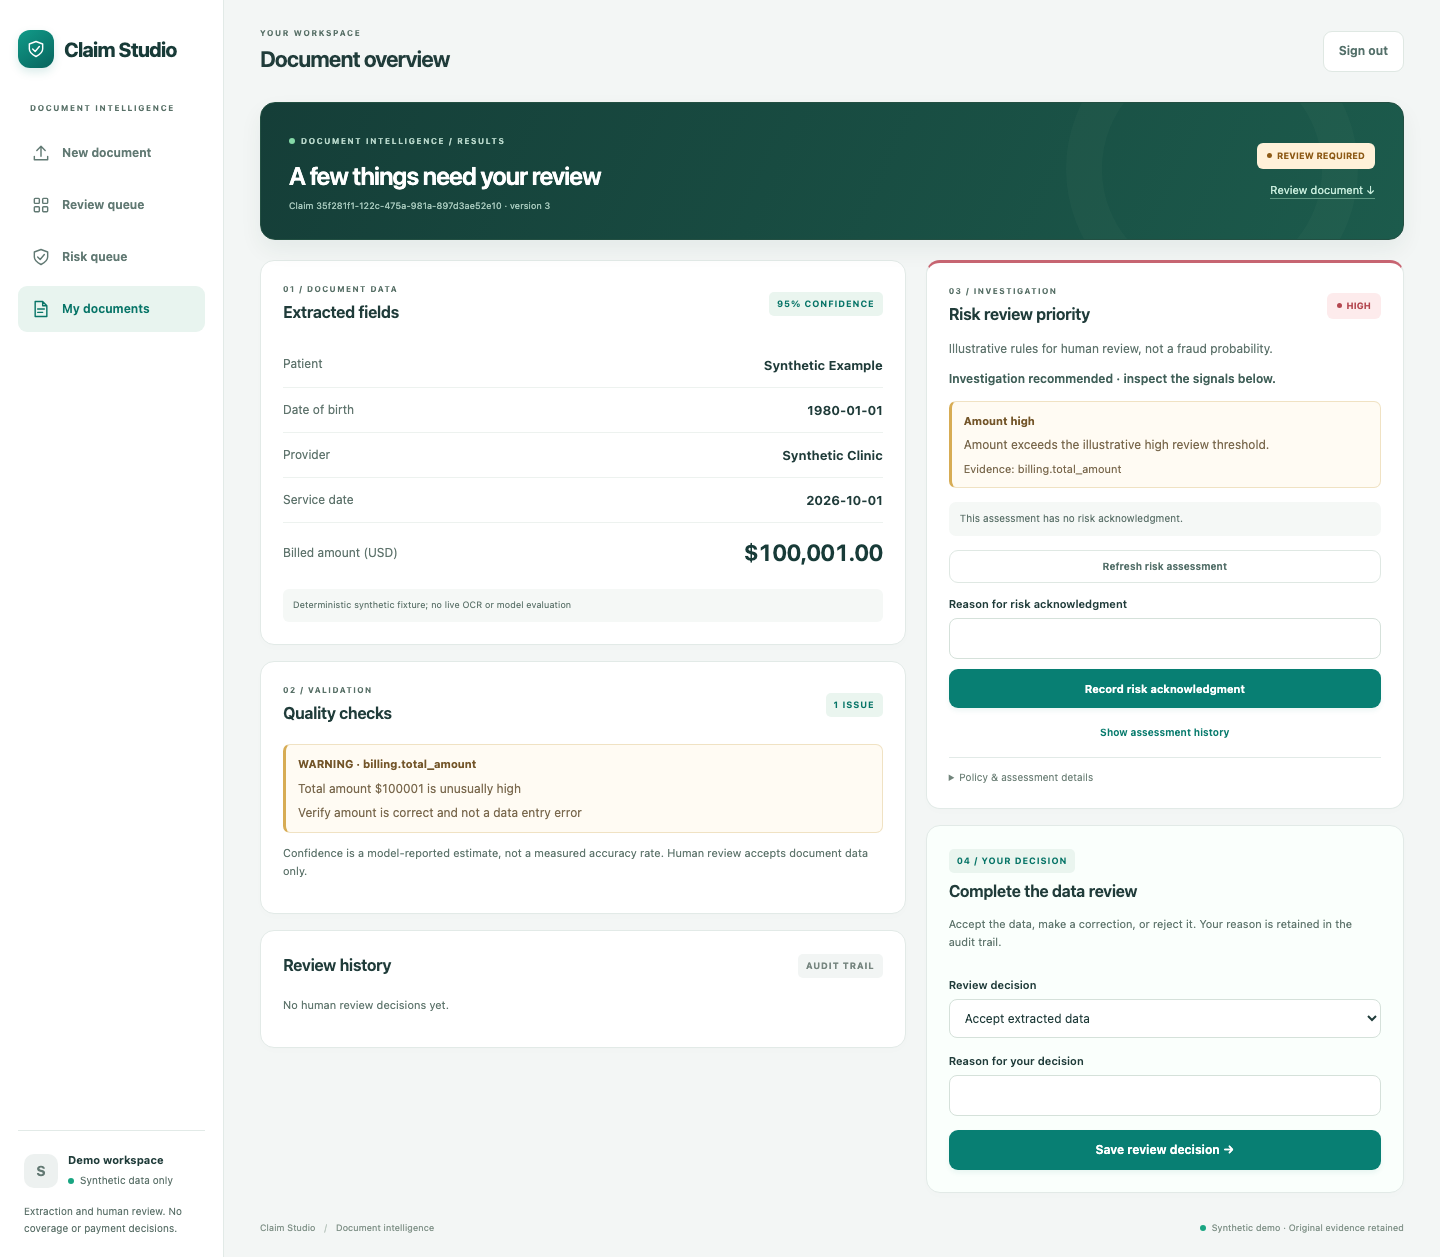
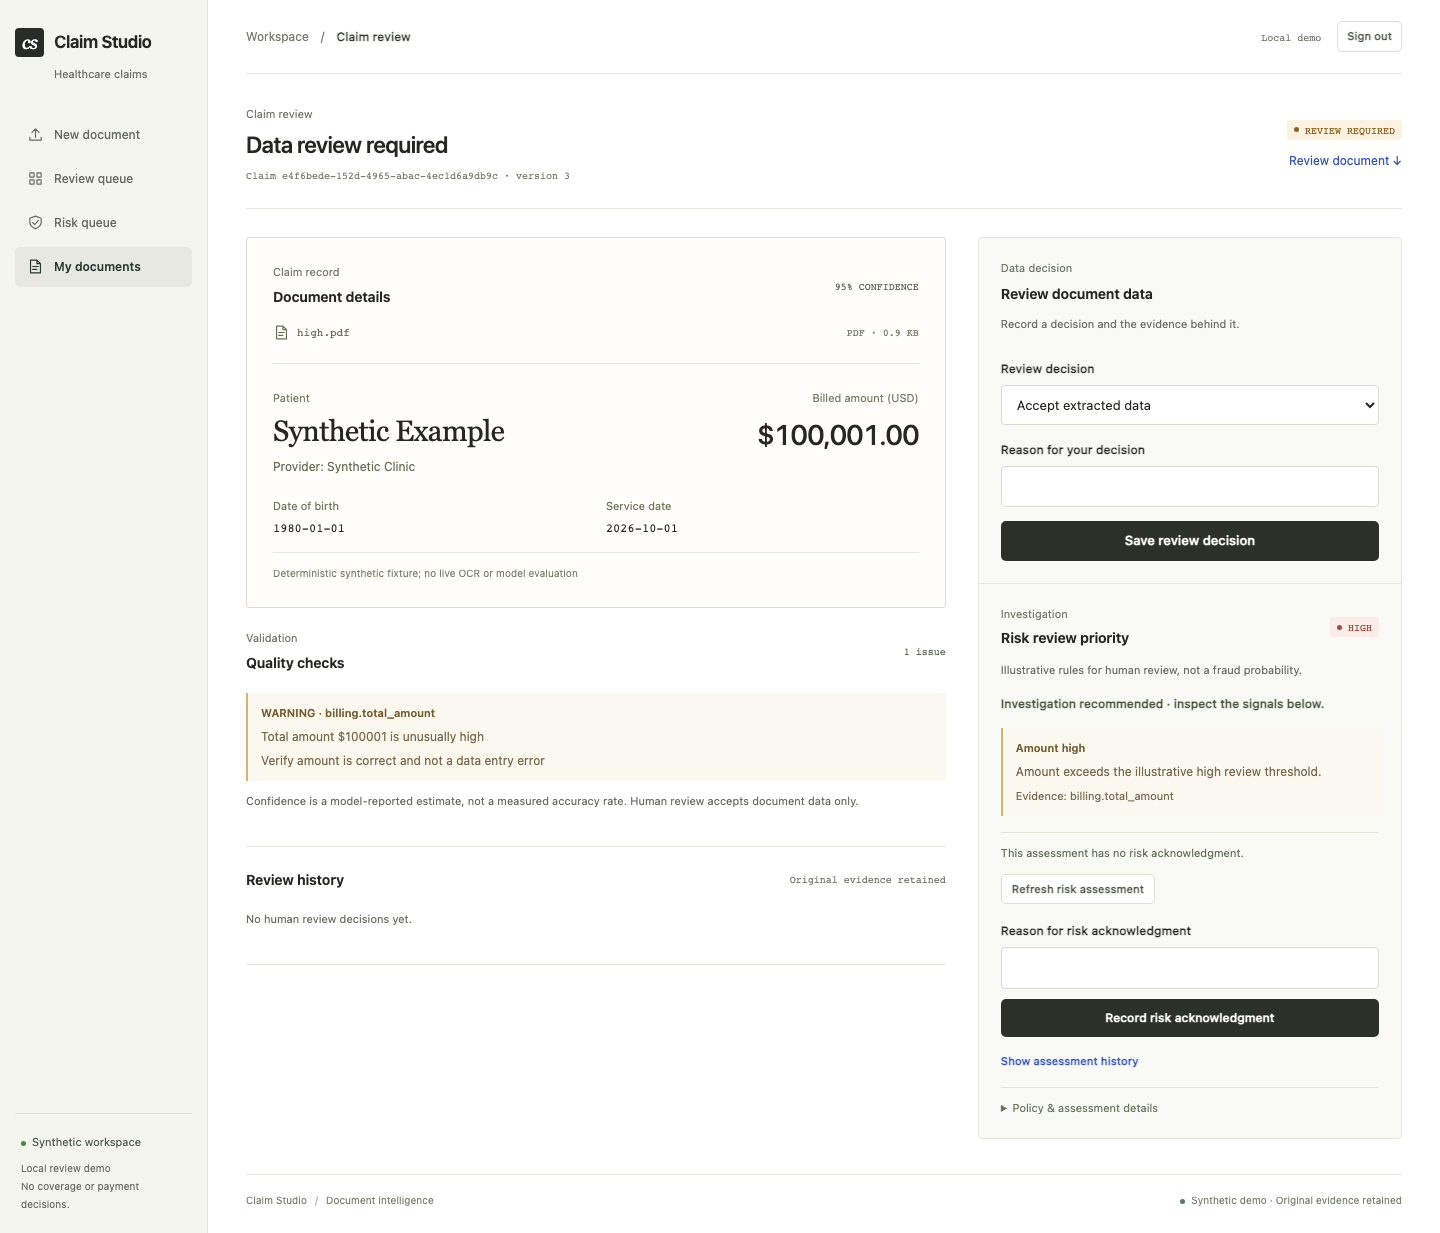
Refresh interface documentation and real workflow screenshots

diff --git a/docs/interface.md b/docs/interface.md
@@ -22,8 +22,9 @@ DEMO_PASSWORD. The browser receives an opaque session and CSRF token, never
 operator/provider credentials. Keep that session to revisit **My documents**.
 A fresh login creates a new private workspace; signing out revokes access.
 
-1. Download a clearly labeled synthetic sample from the upload screen.
-2. Upload it; the API creates the claim/document and enqueues processing.
+1. Select **Try** beside a labeled sample in synthetic mode, or download a sample
+   and use the file picker. One-click samples are hidden in live mode.
+2. The API creates the claim/document and enqueues the same processing workflow.
 3. Follow status polling. Polling stops on success, review-required, rejection,
    failure, sign-out, navigation away, or a request error.
 4. Inspect extracted fields, model-reported confidence, quality issues, and reasoning.
@@ -47,9 +48,11 @@ untrusted output. CSP permits only same-origin assets and forbids framing.
 ## Review workspace layout
 
 The document summary shows processing state and links directly to the data review
-when a decision is needed. Desktop results place extracted data, validation and
-review evidence on the left, with risk investigation and data decisions on the
-right. Mobile stacks those sections and keeps all four navigation choices visible.
+when a decision is needed. Desktop results use a case-file layout: stored filename,
+patient, provider, amount, dates, validation and audit evidence on the left; the
+data decision and independent risk investigation on the right. Mobile stacks those sections and keeps all four navigation choices visible.
+File details come from the existing protected document metadata API; filenames
+are rendered as text and stale responses cannot replace another selected case.
 Amounts use currency formatting for display; stored values and review inputs retain
 exact decimal semantics. Policy timestamps and acknowledgment actor details remain
 available under **Policy & assessment details**. Raw before/after audit snapshots
@@ -70,12 +73,17 @@ uv run --locked python -m scripts.check_browser
 ```
 
 The launcher starts separate API and worker processes on loopback port 8047 and
-runs four Chromium workflows covering login, upload, complete results,
+runs five Chromium workflows covering login, upload, complete results,
 correction/audit, rejection, failure/retry, scoped duplicates, risk investigation,
-and logout. The mobile workflow checks investigation/acknowledgment, data approval,
+and logout. The mobile workflow checks one-click samples, real file metadata,
+investigation/acknowledgment, data approval,
 queue navigation, and horizontal overflow at 390px. Its dedicated test DB must
-not contain real/user data. It removes demo smoke records and session rows after completion.
+not contain real/user data. A separate scenario delays a metadata response while
+switching cases and verifies the selected filename/amount remain correct.
+The launcher removes demo smoke records and session rows after completion.
 Screenshots show this actual fixture flow, not a proposed interface:
 
 ![Results](screenshots/results.png)
 ![Review audit](screenshots/review.png)
+
+The [UI design notes](ui-design.md) record the reference products and visual decisions.

diff --git a/docs/ui-design.md b/docs/ui-design.md
@@ -1,0 +1,37 @@
+# Claim Studio interface design
+
+The workspace is a case file for reviewing extracted claim data. The document,
+evidence and next decision define its hierarchy.
+
+## References
+
+[Linear's interface refresh](https://linear.app/now/behind-the-latest-design-refresh)
+informed the quiet navigation, consistent location bar and restrained visual weight.
+[Ramp's bill approval workflow](https://support.ramp.com/bill-pay-approvals/)
+informed the separation of record evidence and reviewer decisions. These are design
+references; no product assets, logos or proprietary components are included.
+
+## Visual decisions
+
+- Warm neutral navigation and paper surfaces, with dark ink for primary controls.
+  Cobalt identifies links and focus; status colors identify actionable state.
+- Sans-serif controls, serif patient headings and monospace identifiers provide
+  distinct roles for each type style. Fonts are system-local.
+- One claim record contains the stored filename, patient, provider, billed amount
+  and dates. Evidence and history follow without repeating the same fields.
+- The data decision appears first in the review column. Risk investigation remains
+  independent and retains its own reasoned acknowledgment and assessment history.
+- Copy names the task directly. Only processing state and risk classification use
+  compact colored labels.
+
+## Interaction and verification
+
+Synthetic samples use the same authenticated upload/enqueue path as selected files.
+One-click controls are available only in synthetic mode. Real file metadata is
+owner-protected, rendered through textContent, and guarded against stale selection.
+Audit details and full policy metadata remain accessible through disclosures.
+
+Desktop and 390px mobile browser checks cover the original workflows, one-click
+samples, metadata, corrections, duplicates, acknowledgment, conflict recovery,
+keyboard-addressable controls and horizontal overflow. README images are actual
+synthetic browser captures; source screenshots are not imported from other products.

diff --git a/README.md b/README.md
@@ -92,10 +92,10 @@ flowchart LR
     QUEUE --> ACK[Reasoned acknowledgment]
     ENGINE -.-> HISTORY[Immutable assessment history]
     ACK -.-> HISTORY
-    classDef input fill:#f0f6f3,stroke:#b1cfc1,color:#203c3a
-    classDef engine fill:#153e38,stroke:#153e38,color:#ffffff
+    classDef input fill:#f7f7f2,stroke:#d8dccf,color:#252722
+    classDef engine fill:#2b3028,stroke:#2b3028,color:#ffffff
     classDef result fill:#fff1d9,stroke:#d0a152,color:#74562a
-    classDef action fill:#e6f5eb,stroke:#69a98c,color:#216f4e
+    classDef action fill:#edf4e9,stroke:#a2b38d,color:#3d754e
     class DATA,CHANGE input
     class ENGINE engine
     class RESULT result
@@ -124,7 +124,8 @@ docker compose --env-file .env.docker up -d --wait
 ```
 
 Open **http://127.0.0.1:8000/demo**. Sign in using `DEMO_PASSWORD` from the private,
-gitignored `.env.docker` file. Download a labeled sample from the upload screen:
+gitignored `.env.docker` file. Select **Try** beside a labeled sample to open it
+in one click, or download it and use the file picker:
 
 | Sample | Fixture outcome / risk | Try this |
 | --- | --- | --- |
@@ -224,7 +225,7 @@ worker-process crash/restart, Chromium upload/review flows, and full Docker
 persistence plus paired database/upload restore. CI runs setup, lint/docs/unit,
 PostgreSQL/migrations, browser, and container checks. Evidence and release details
 are in [verification](docs/verification/) and [risk release notes](docs/releases/risk-v1.md).
-The current project verification includes **303 Python tests**, **four Chromium workflows**, and
+The current project verification includes **303 Python tests**, **five Chromium workflows**, and
 **11 Docker migration/restart/restore checks**. Six declared synthetic scenarios
 match the policy; this measures rule conformance, not predictive fraud accuracy.
 
